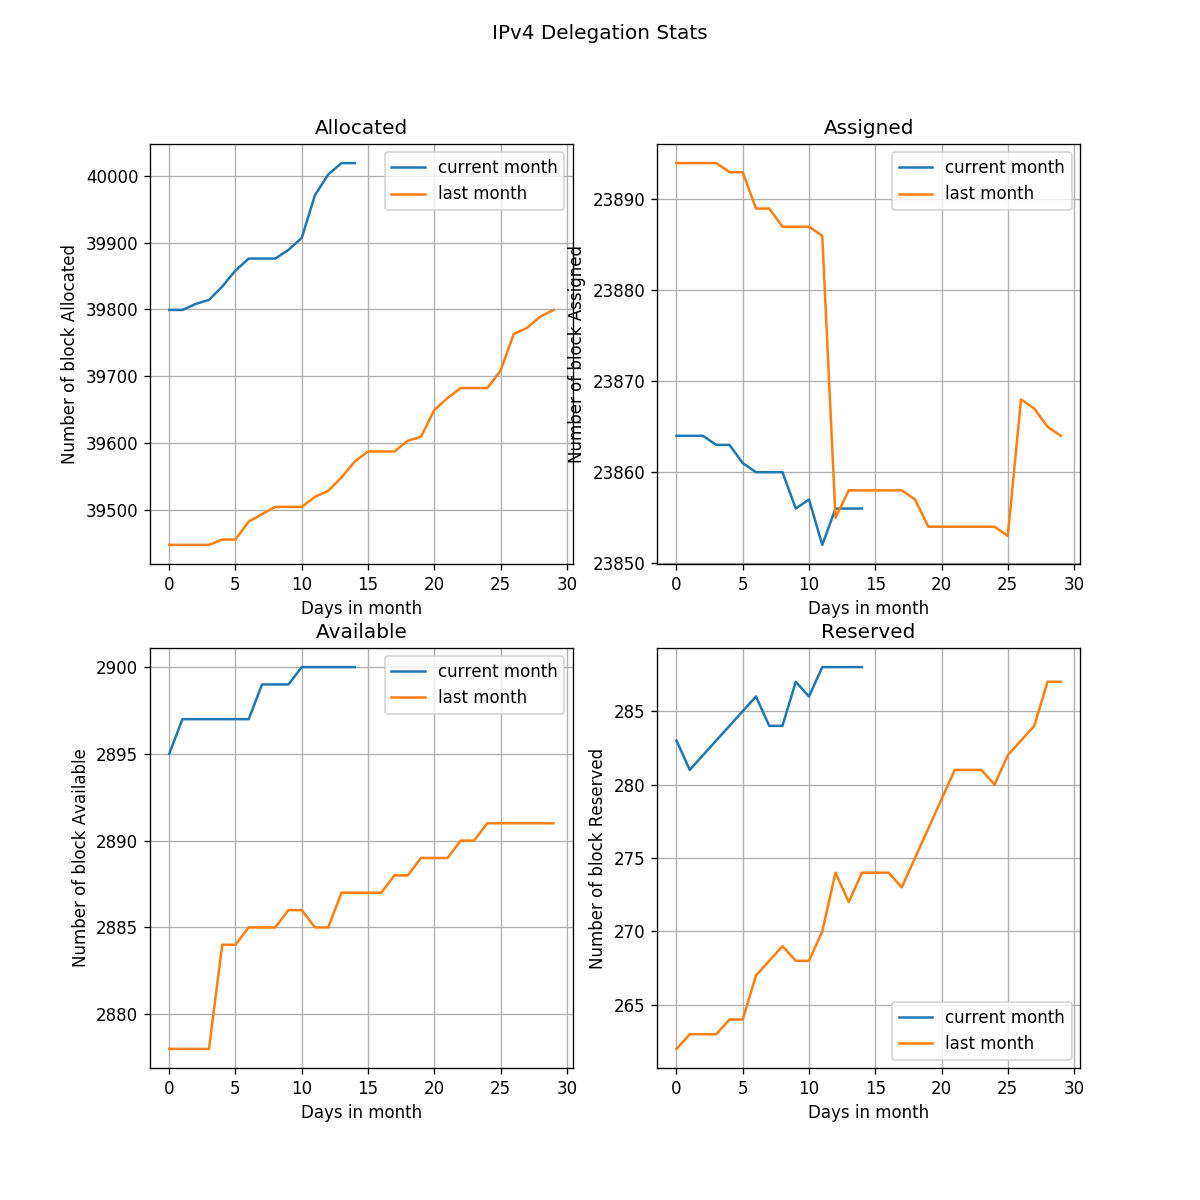
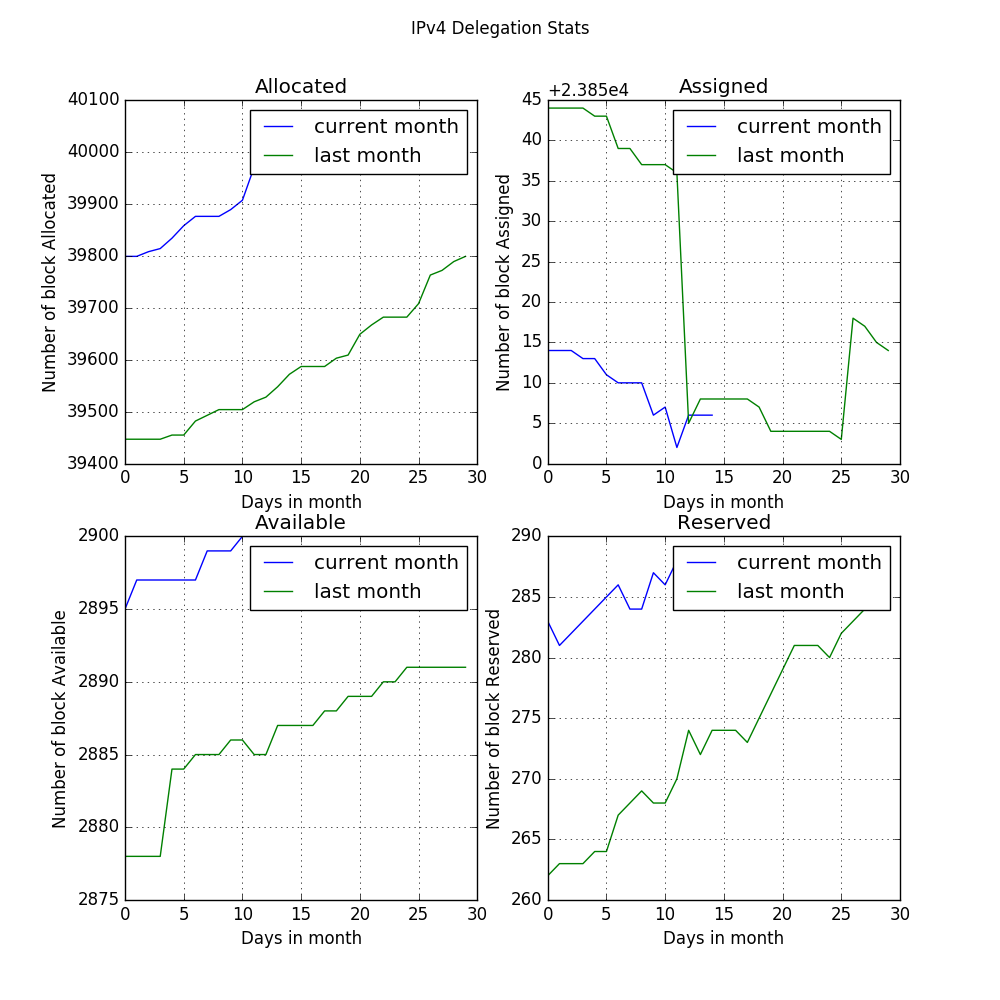
Changed to run in non desktop environment

diff --git a/graphs/generate_graphs.py b/graphs/generate_graphs.py
@@ -1,6 +1,8 @@
 """ This file is used to create the graphs for the 4 different stats """
 
 import json
+import matplotlib
+matplotlib.use('Agg')
 import matplotlib.pyplot as plt
 from graphs.generate_graph_functions import current_dates, past_month_dates, create_graph
 
